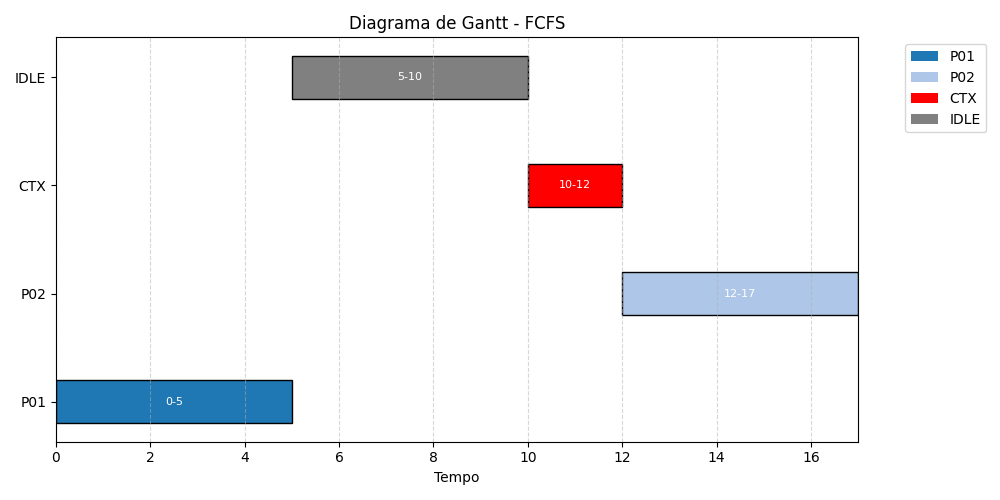
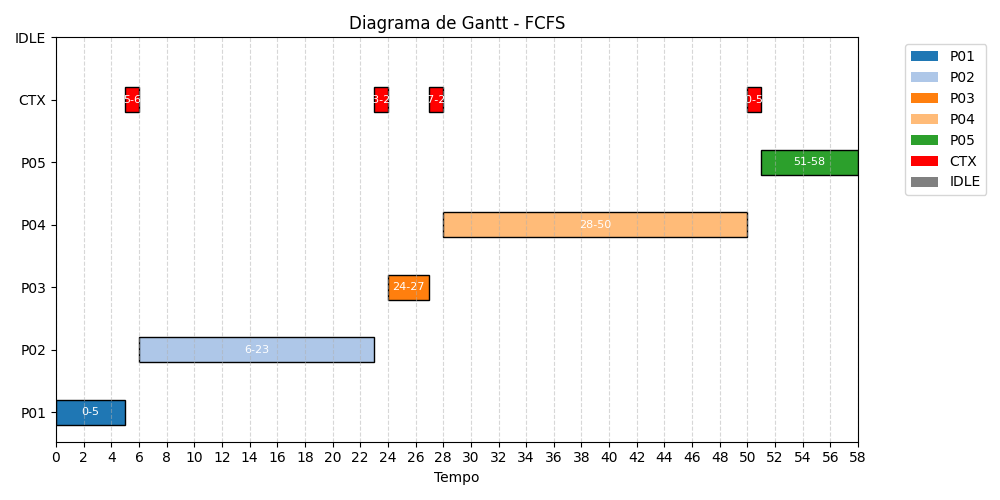
teste

diff --git a/main.py b/main.py
@@ -4,7 +4,7 @@ from algorithms.round_robin import round_robin
 from load_json import JsonData
 from models.Metricas import Metricas
 
-a = JsonData("a.json")
+a = JsonData("c.json")
 metricas = Metricas()
 
 results_fcfs = fcfs(a.processes, a.context_switch_cost)
@@ -17,16 +17,19 @@ results_rr = []
 for q in a.rr_quantums:
     results_rr.append(round_robin(a.processes, a.context_switch_cost, q))
 
-
 for result in results_rr:
     metricas.adicionar(f"RR - {result.quantum}", result)
 
-metricas.plot_tempos_espera()
-metricas.plot_tempos_retorno()
-metricas.plot_vazao()
+# metricas.plot_tempos_espera()
+# metricas.plot_tempos_retorno()
+# metricas.plot_vazao()
+# metricas.plot_tempos_espera()
+# metricas.plot_tempos_retorno()
+# metricas.plot_vazao()
 
 results_fcfs.plot_gantt_classic()
 results_sjf.plot_gantt_classic()
+results_fcfs.show_timeline()
 
 for result in results_rr:
     result.plot_gantt_classic()
